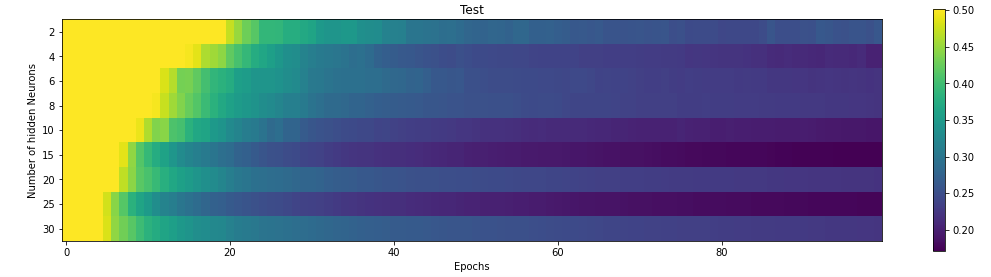
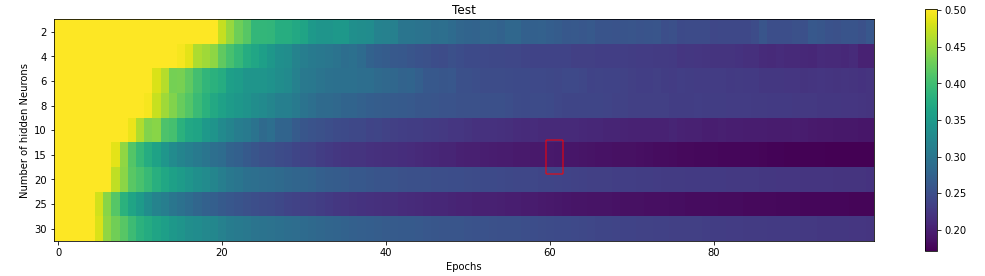
rapport ++

diff --git a/README.md b/README.md
@@ -52,8 +52,6 @@ As the training is done with random weights, we have to train several times, we 
 
 ## 1 Hold-out validation
 
-In hold-out validation the dataset is split in two parts: one part is  used during training and the other is used for testing the  generalization capabilities of the model. This method has the advantage  of being easy to implement. However, in hold-out validation the  generalisation performance is evaluated with a single test, using a  dataset partition that not necessarily represents the whole distribution of the whole dataset. Hence, it can produce some undesirable behaviours that lead to a wrong assessment of the performance of the model. In  this notebook you are going to explore the behaviour of hold-out  validation by simulating datasets with diverse degrees of complexity.
-
 **Q1**. Determine where do we define all the parameters mentioned above.
 
 We define them as constant in the Jupyter Notebook. 
@@ -74,10 +72,6 @@ Cyan is for the training dataset and red is for the testing dataset.
 
 We need to see the difference to have an idea of the MSE in both dataset. Both dataset should have a good MSE. We need all the informations possible to chose the right model. 
 
-Source : https://heds.nz/posts/training-test-mse-r/ ??
-
-//TODO ??
-
 **Q3**. What happens with the training and test errors (MSE) when we have the two sets more overlapped ?
 
 The mean square error is getting bigger for both dataset as the spread is getting bigger as well. This is logical behavior because as the datas are closer it gets harder to classify them correctly.
@@ -93,8 +87,6 @@ The red one is the testing dataset which has only 20% of the datas in our case. 
 It shows the distribution of the MSE for each spread value for the last epoch of the test dataset. 
 
 ## K-fold cross-validation
-
-In k-fold cross-validation the dataset is split in K parts: k-1 parts are used during training and the remaining part is used for testing the generalization capabilities of the model. This method has the advantage of giving more consistent results than hold-out validation. In this notebook you are going to explore the behaviour of k-fold cross-validation by simulating datasets with diverse degrees of complexity.
 
 **Q1**. Determine where do we define all the above mentioned parameters.
 
@@ -120,24 +112,31 @@ In the cross-validation we can observe that each partition generates values of m
 
 ### Man vs woman - natural
 
-To train our model we use the mean features. We tested with the standard derivation but the MSE was way too big and it needed more Epochs and neurons to start being viable. //TODO expliquer pourquoi c'est mieux ?
+To train our model we use the mean features. Standard deviation tells you how spread out the data is, it tells us how different the voice are. which doesn't interest us. We even tested it and the MSE was way too big and it needed more epochs and neurons to start being viable. That's why we ended up by using the mean feature to characterize the MFCC values.
 
-Epoch = 60
-Neurons = 15
+We have 36 women and 36 man in our dataset. We fixed the learning rate to `0.001` and the momentum term to `0.5`. These values are just initial guesses which work well in most of the cases so we did not change them. We first explored the number of epochs to estimate how many iterations of the backpropagation algorithm are enough to find a low training error. This is the result :
 
-![](img/test1.png)
+**Number of epochs**![](img/test1.png)
 
-![](./img/test2.png)
+Between 2 neurons to 16 neurones the training error does improve a little bit and between 16 to 32 neurons it slightly improves. The result of this test indicates that the minimum number of iterations needed are around 16. 
 
-![](./img/training1.png)
+We explored further by testing the complexity of the model (number of hidden neurons) :
+
+**Number of hidden neurons**![](./img/test2.png)
+
+On these graphs we can even see that after 15 neurons there is some overfitting. 
+
+**Number of hidden neurons**![](./img/training1.png)
 
 ![](./img/test3.png)
+
+With this different visualization it is easier to make a choice about the number of epochs and the number of neurons. We made some test as well and we finished with 60 epochs and 15 neurons. (red square)
 
 ![](./img/conf_mat1.png)
 
 ![](./img/F1_score_1.png)
 
-
+We first calculate the F1 score for both man and woman and then make a mean of them two. The resuts are quite accurate as we have an F1 score of 0.97.
 
 ### Man vs woman . natural and synthetic
 
